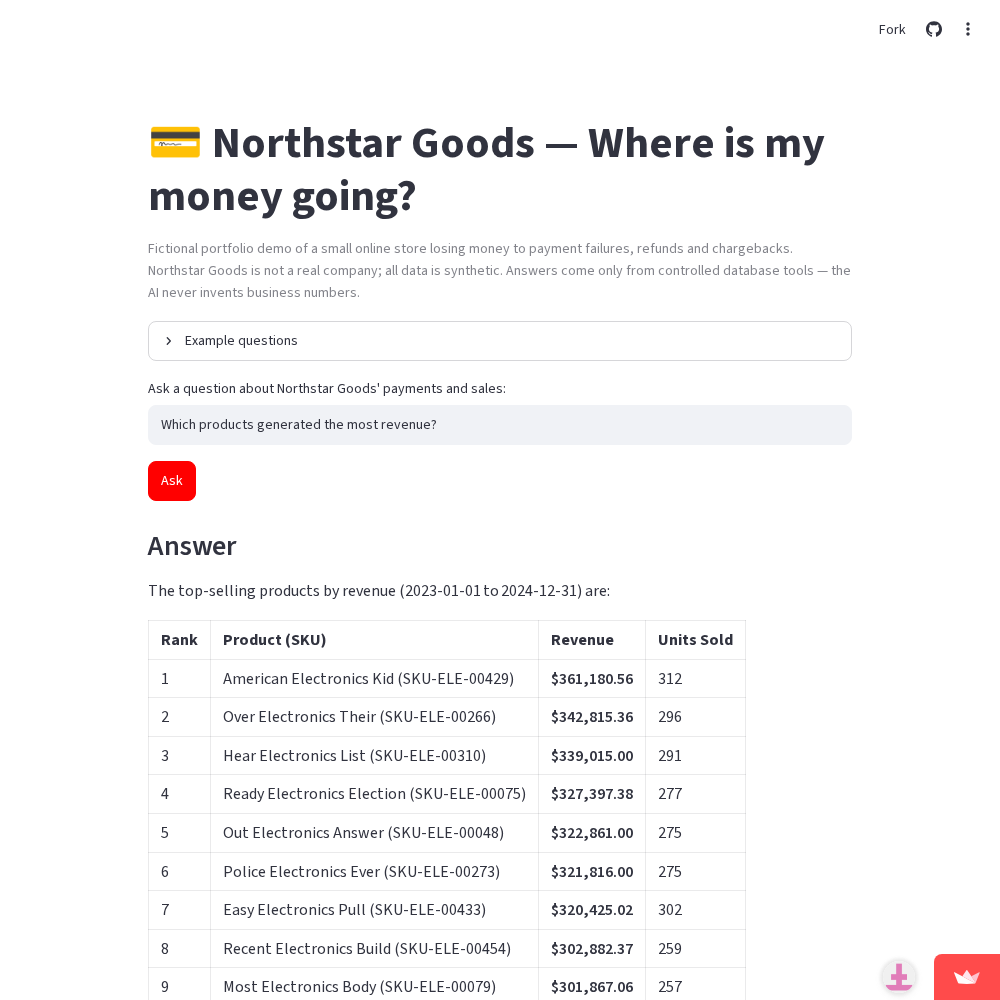
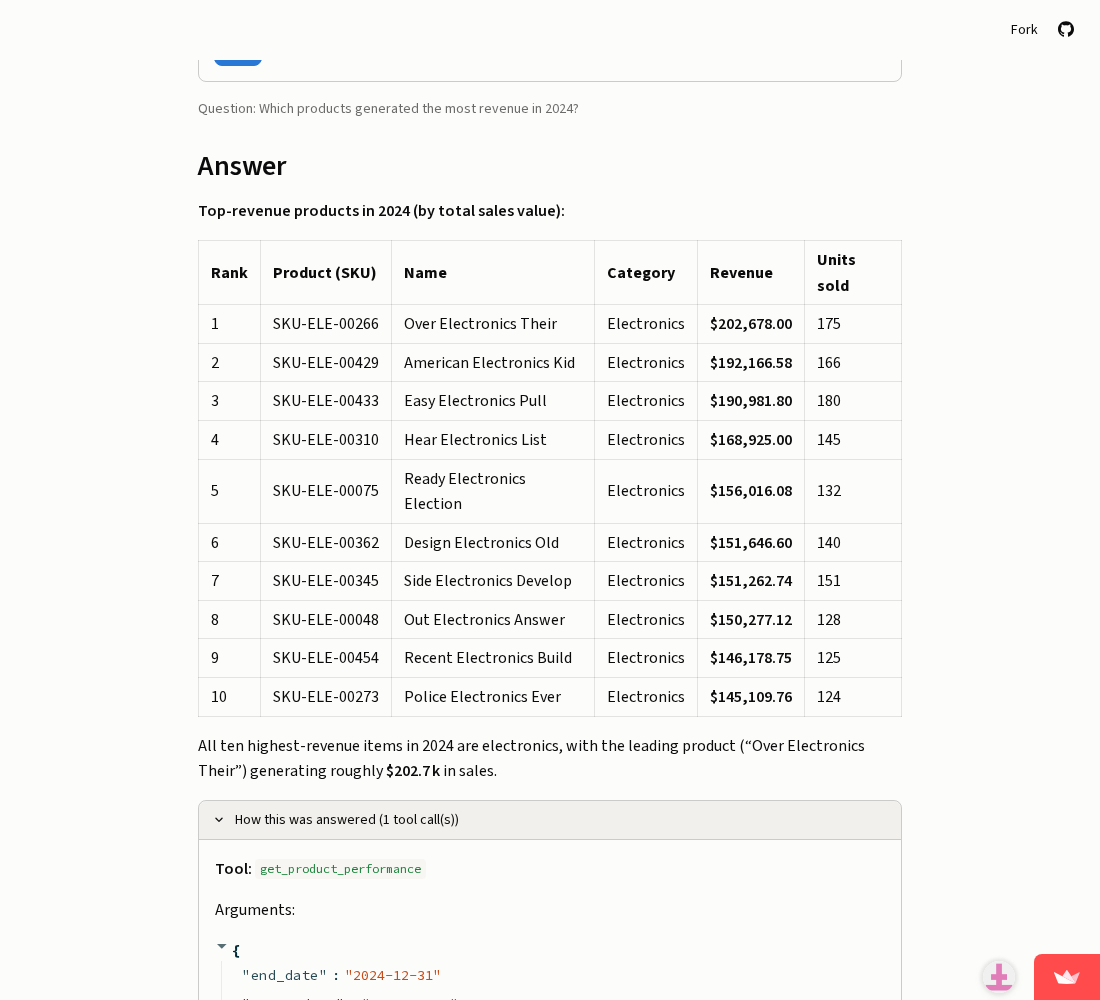
docs: point to new live URL and refresh live-demo screenshot

diff --git a/README.md b/README.md
@@ -8,14 +8,14 @@ case study in **AI Automation + Data Integration**.
 > demonstration — no real client, customer, or business data is used anywhere
 > in this repository.
 
-[![Try it live](https://img.shields.io/badge/Try%20it-live%20demo-ff4b4b?logo=streamlit&logoColor=white)](https://ai-business-data-assistant-7yx4lzewmva2kn2u5h3wgr.streamlit.app/)
+[![Try it live](https://img.shields.io/badge/Try%20it-live%20demo-ff4b4b?logo=streamlit&logoColor=white)](https://alfredo-business-assistant.streamlit.app/)
 [![CI](https://github.com/alfiochoa/ai-business-data-assistant/actions/workflows/ci.yml/badge.svg)](https://github.com/alfiochoa/ai-business-data-assistant/actions/workflows/ci.yml)
 
 ![Streamlit UI answering a revenue-drop question from live data](docs/screenshot.png)
 
 ## Try it
 
-- **Live demo:** https://ai-business-data-assistant-7yx4lzewmva2kn2u5h3wgr.streamlit.app/
+- **Live demo:** https://alfredo-business-assistant.streamlit.app/
 - **Run locally in 3 commands:** see [Setup](#setup).
 - **60-second walkthrough:** [`docs/DEMO_SCRIPT.md`](docs/DEMO_SCRIPT.md) lists the exact questions to ask.
 
@@ -183,7 +183,7 @@ LLM_FALLBACK_MODEL = "qwen/qwen3.8-27b"
 ```
 
 (Hugging Face Docker Spaces need a PRO plan, so `deploy/` is optional.)
-Live URL: https://ai-business-data-assistant-7yx4lzewmva2kn2u5h3wgr.streamlit.app/
+Live URL: https://alfredo-business-assistant.streamlit.app/
 
 ## Sample Q&A
 

diff --git a/docs/DEMO_SCRIPT.md b/docs/DEMO_SCRIPT.md
@@ -1,6 +1,6 @@
 # 60-second demo video script
 
-Setup: UI open at https://ai-business-data-assistant-7yx4lzewmva2kn2u5h3wgr.streamlit.app/ (or `streamlit run streamlit_app.py`), "Example
+Setup: UI open at https://alfredo-business-assistant.streamlit.app/ (or `streamlit run streamlit_app.py`), "Example
 questions" collapsed, browser zoom ~110%. All data is synthetic (Northstar Goods).
 
 | Time | Say | Do / ask (type exactly) |
